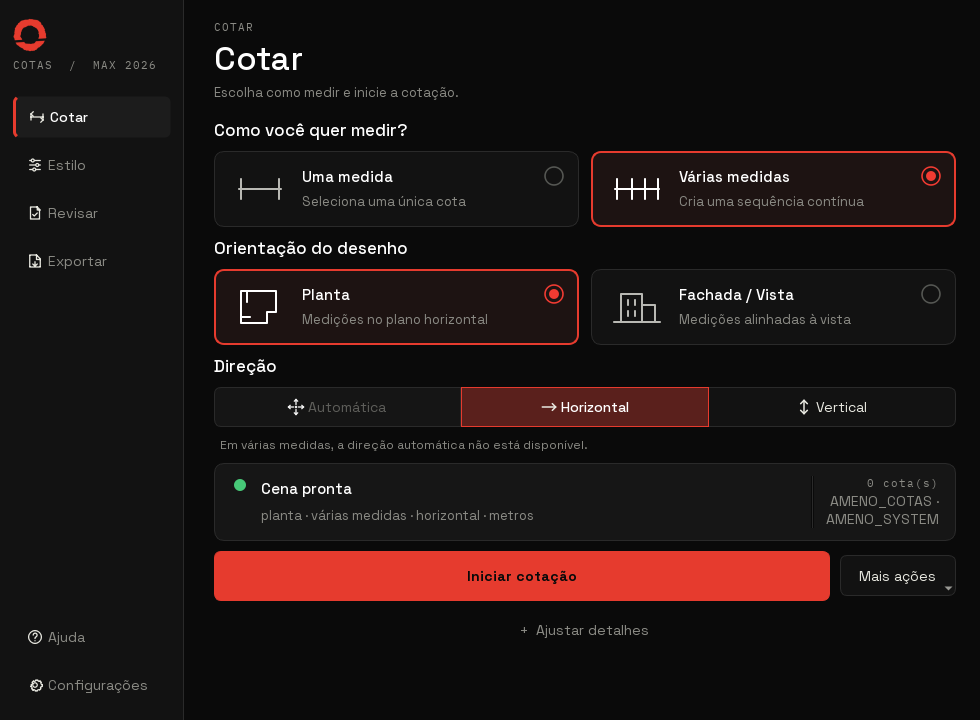
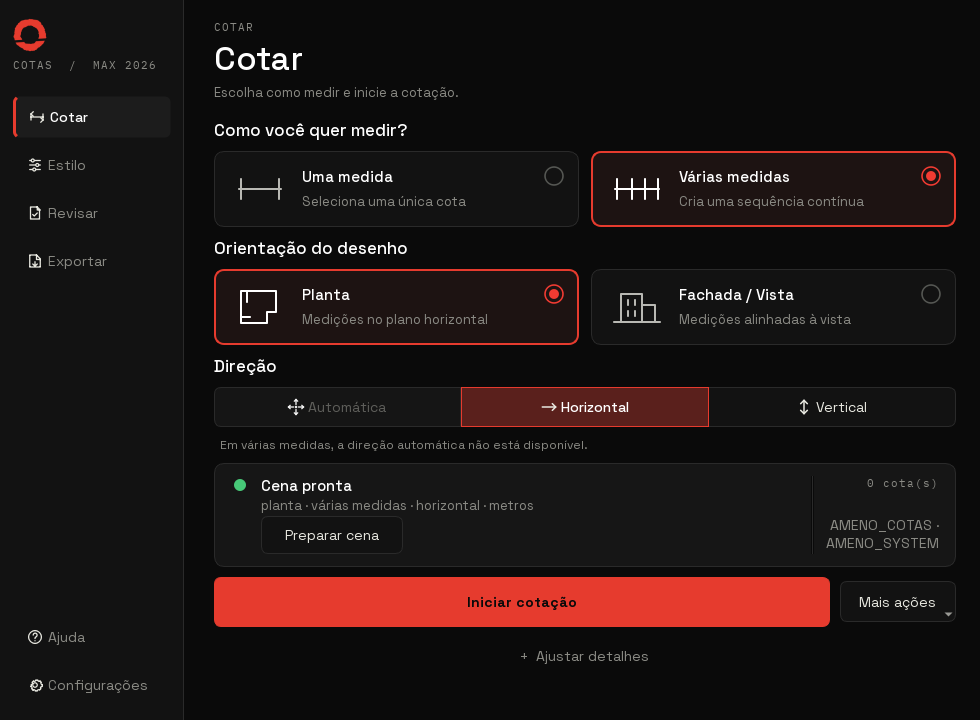
feat(e19): adopt vertical shell and refine scene actions

Changed region(s): [[0.2143, 0.6722, 0.9796, 0.9167]]

diff --git a/Contents/python/ameno_ui/create_page.py b/Contents/python/ameno_ui/create_page.py
@@ -98,7 +98,7 @@ class CreatePage(QtWidgets.QWidget):
         self.precision.setSuffix(" casas")
         self.follow_line = QtWidgets.QCheckBox("Texto acompanha a linha")
         self.follow_line.setChecked(True)
-        details_form.addRow("Aparência", self.style)
+        details_form.addRow("Estilo", self.style)
         details_form.addRow("Unidade", self.unit)
         details_form.addRow("Precisão", self.precision)
         details_form.addRow("Texto", self.follow_line)
@@ -120,6 +120,10 @@ class CreatePage(QtWidgets.QWidget):
         self.selection_summary.setObjectName("SelectionSummary")
         self.selection_summary.setWordWrap(True)
         state_copy.addWidget(self.selection_summary)
+        self.prepare_button = button("Preparar cena", self.prepare_scene)
+        self.prepare_button.setAccessibleName("Preparar cena e criar as layers de cotas")
+        self.prepare_button.setMinimumWidth(142)
+        state_copy.addWidget(self.prepare_button, 0, QtCore.Qt.AlignmentFlag.AlignLeft)
         action_layout.addLayout(state_copy, 1)
         action_layout.addWidget(self._vertical_rule())
         scene_meta = QtWidgets.QVBoxLayout()
@@ -147,9 +151,6 @@ class CreatePage(QtWidgets.QWidget):
         self.more_button.setMinimumHeight(40)
         self.more_button.setPopupMode(QtWidgets.QToolButton.ToolButtonPopupMode.InstantPopup)
         self.more_menu = QtWidgets.QMenu(self.more_button)
-        self.refresh_action = self.more_menu.addAction("Atualizar estado da cena")
-        self.prepare_action = self.more_menu.addAction("Preparar cena")
-        self.more_menu.addSeparator()
         self.repair_action = self.more_menu.addAction("Reparar todas as cotas")
         self.delete_selection_action = self.more_menu.addAction("Excluir cotas selecionadas…")
         self.clear_orphans_action = self.more_menu.addAction("Limpar cotas órfãs…")
@@ -166,8 +167,6 @@ class CreatePage(QtWidgets.QWidget):
         root.addWidget(self.status)
         root.addStretch(1)
 
-        self.refresh_action.triggered.connect(self.refresh)
-        self.prepare_action.triggered.connect(self.prepare_scene)
         self.repair_action.triggered.connect(self.repair_all)
         self.delete_selection_action.triggered.connect(self.delete_selected)
         self.clear_orphans_action.triggered.connect(self.clear_orphan_dimensions)
@@ -195,8 +194,8 @@ class CreatePage(QtWidgets.QWidget):
         # surface. They are actions now, not duplicate visible buttons.
         self.individual = self.start_button
         self.continuous = self.start_button
-        self.prepare = self.prepare_action
-        self.refresh_button = self.refresh_action
+        self.prepare = self.prepare_button
+        self.refresh_button = None
         self.repair = self.repair_action
         self.delete_selection = self.delete_selection_action
         self.clear_orphans = self.clear_orphans_action
@@ -382,7 +381,7 @@ class CreatePage(QtWidgets.QWidget):
             return False
 
     def _set_busy(self, busy: bool) -> None:
-        for control in (self.start_button, self.more_button, self.tool_choice, self.plane_choice, self.details):
+        for control in (self.start_button, self.prepare_button, self.more_button, self.tool_choice, self.plane_choice, self.details):
             control.setEnabled(not busy)
 
     def _run_tool(self, continuous: bool) -> None:

diff --git a/Contents/python/ameno_ui/window.py b/Contents/python/ameno_ui/window.py
@@ -212,7 +212,7 @@ class AmenoMainWindow(QtWidgets.QMainWindow):
         self.setObjectName("AmenoMainWindow")
         self.setWindowFlags(QtCore.Qt.WindowType.Window | QtCore.Qt.WindowType.WindowMinimizeButtonHint | QtCore.Qt.WindowType.WindowMaximizeButtonHint | QtCore.Qt.WindowType.WindowCloseButtonHint)
         self.setMinimumSize(780, 560)
-        self.resize(1280, 720)
+        self.resize(780, 720)
         self.setWindowIcon(icon("brand/ameno-symbol-red.png"))
         self.setAttribute(QtCore.Qt.WidgetAttribute.WA_DeleteOnClose, True)
         self._authenticate = authenticate
@@ -237,17 +237,17 @@ class AmenoMainWindow(QtWidgets.QMainWindow):
                 self.restoreGeometry(geometry)
             except Exception:
                 pass
-        # Open in the comfortable horizontal workspace approved in the real
-        # Max host. Preserve the restored position, but normalize the opening
-        # size so an older narrow saved geometry cannot squeeze Estilo again.
+        # Open in the vertical workspace approved in the real Max host. This
+        # intentionally activates Estilo's stacked layout, keeping its preview
+        # above the scrolling controls instead of squeezing two columns.
         screen = self.screen() or QtGui.QGuiApplication.primaryScreen()
         if screen is not None:
             available = screen.availableGeometry().size()
-            width = max(780, min(1280, available.width() - 24))
+            width = max(780, min(780, available.width() - 24))
             height = max(560, min(720, available.height() - 24))
             self.resize(width, height)
         else:
-            self.resize(1280, 720)
+            self.resize(780, 720)
         maximized = preferences.value("window/maximized", False)
         if isinstance(maximized, str):
             maximized = maximized.strip().lower() in ("1", "true", "yes", "on")

diff --git a/tools/render-e19-cotar.py b/tools/render-e19-cotar.py
@@ -44,15 +44,24 @@ def main() -> None:
     page.tool_choice.set_value("continuous", emit=True)
     window.show()
     app.processEvents()
-    image = QtGui.QImage(window.size(), QtGui.QImage.Format.Format_ARGB32)
-    image.fill(QtGui.QColor("#0A0A0A"))
-    window.render(image)
-    target = OUTPUT / "01-cotar-980x720.png"
-    if not image.save(str(target)):
-        raise RuntimeError("Falha ao salvar " + str(target))
+    targets = []
+    for width, height, name in (
+        (980, 720, "01-cotar-980x720.png"),
+        (780, 720, "05-cotar-default-780x720.png"),
+    ):
+        window.resize(width, height)
+        app.processEvents()
+        image = QtGui.QImage(window.size(), QtGui.QImage.Format.Format_ARGB32)
+        image.fill(QtGui.QColor("#0A0A0A"))
+        window.render(image)
+        target = OUTPUT / name
+        if not image.save(str(target)):
+            raise RuntimeError("Falha ao salvar " + str(target))
+        targets.append(target)
     window.close()
     app.processEvents()
-    print(target)
+    for target in targets:
+        print(target)
 
 
 if __name__ == "__main__":

diff --git a/tests/python/test_e19_style_workspace.py b/tests/python/test_e19_style_workspace.py
@@ -48,12 +48,16 @@ def _window(width: int, height: int):
     return window
 
 
-def test_window_opens_in_comfortable_horizontal_workspace() -> None:
+def test_window_opens_in_vertical_stacked_workspace() -> None:
     app = _app()
     window = AmenoMainWindow(StyleBridge(), lambda _token: None, lambda: None)
     available = (window.screen() or QtGui.QGuiApplication.primaryScreen()).availableGeometry().size()
-    assert window.width() == max(780, min(1280, available.width() - 24))
+    assert window.width() == max(780, min(780, available.width() - 24))
     assert window.height() == max(560, min(720, available.height() - 24))
+    window.show_application("styles")
+    window.show()
+    app.processEvents()
+    assert window.shell.pages["styles"]._workspace_mode == "compact"
     window.close()
     app.processEvents()
 

diff --git a/tests/python/test_e17_qt_ux.py b/tests/python/test_e17_qt_ux.py
@@ -134,13 +134,13 @@ def test_all_previous_commands_remain_reachable_without_extra_primary_actions() 
     create = window.shell.pages["create"]
     create_actions = {action.text() for action in create.more_menu.actions() if not action.isSeparator()}
     assert {
-        "Atualizar estado da cena",
-        "Preparar cena",
         "Reparar todas as cotas",
         "Excluir cotas selecionadas…",
         "Limpar cotas órfãs…",
         "Excluir todas as cotas…",
     } == create_actions
+    assert create.prepare_button.isVisibleTo(create)
+    assert create.prepare_button.text() == "Preparar cena"
     primary_counts = {}
     for key, page in window.shell.pages.items():
         primary_counts[key] = sum(

diff --git a/tools/render-e19-style.py b/tools/render-e19-style.py
@@ -48,6 +48,7 @@ def main() -> None:
     for width, height, name in (
         (980, 720, "02-estilo-980x720.png"),
         (780, 560, "03-estilo-780x560.png"),
+        (780, 720, "04-estilo-default-780x720.png"),
     ):
         window.resize(width, height)
         app.processEvents()

diff --git a/plans/2026-09-10-e19-correcao-visual-interface-qt.md b/plans/2026-09-10-e19-correcao-visual-interface-qt.md
@@ -311,13 +311,14 @@ controles e 265 px nos campos principais em 980x720; abaixo de 780 px úteis da
 página, a prévia sobe antes que qualquer campo seja cortado. Itens 3 a 6 e a
 repetição do gate dentro do Max continuam pendentes.
 
-Complemento após o gate real: a janela passa a abrir em 1280x720, limitada à
-área útil do monitor, mesmo quando existir geometria estreita de uma sessão
-anterior. Bibliotecas antigas que possuíam somente o estilo Arquitetônico
-recebem os presets Editorial e Técnico sem sobrescrever estilos personalizados
-e sem duplicar registros em aberturas posteriores. O conjunto local passou a
-67 testes Python; a migração host-side possui teste MaxScript dedicado e ainda
-precisa ser executada com o Max fechado.
+Complemento após o gate real: a tentativa horizontal de 1280x720 foi rejeitada.
+A janela passa a abrir em 780x720 para acionar deliberadamente o layout vertical
+de Estilo, com preview fixo acima dos controles. Em Cotar, `Preparar cena` saiu
+de `Mais ações` e ficou visível no card de estado; `Atualizar estado da cena`
+foi removido da superfície. Bibliotecas antigas recebem Editorial e Técnico sem
+sobrescrever estilos personalizados, e o perfil legado exato `Ameno_01` é
+removido da sessão e da biblioteca global. O conjunto passou em 67/67 testes
+Python e no teste MaxScript dedicado com 1 PASS e 0 FAIL.
 
 **Gate E19.3:** todas as páginas passam os contratos de Cotar e todas as ações
 funcionais anteriores continuam alcançáveis.

diff --git a/work/e19-visual/README.md b/work/e19-visual/README.md
@@ -4,9 +4,12 @@
 
 - Arquivo: `01-cotar-980x720.png`
 - Tamanho da janela: 980×720 px.
[2 lines of base64/hex data omitted]
 - Resultado: quatro cards íntegros, CTA visível e scrollbar horizontal em zero.
 - Testes associados: `tests/python/test_e19_cotar_reference.py`.
+- `05-cotar-default-780x720.png`: abertura vertical padrão, com `Preparar cena`
+  visível dentro do estado e menu reservado à manutenção.
[1 lines of base64/hex data omitted]
 
 Esta captura foi gerada com Qt offscreen. Ela valida composição e regressão,
 mas não substitui a captura e o aceite dentro do 3ds Max 2026 com DPI e fonte
@@ -19,5 +22,8 @@ do host real.
 - `03-estilo-780x560.png`: preview acima, controles em scroll próprio e rodapé
   fixo.
[1 lines of base64/hex data omitted]
+- `04-estilo-default-780x720.png`: abertura vertical padrão, preview fixo acima
+  e controles em scroll independente.
[1 lines of base64/hex data omitted]
 - Referência: `work/e19-reference/02-estilo-target.png`.
 - Testes: `tests/python/test_e19_style_workspace.py`.
